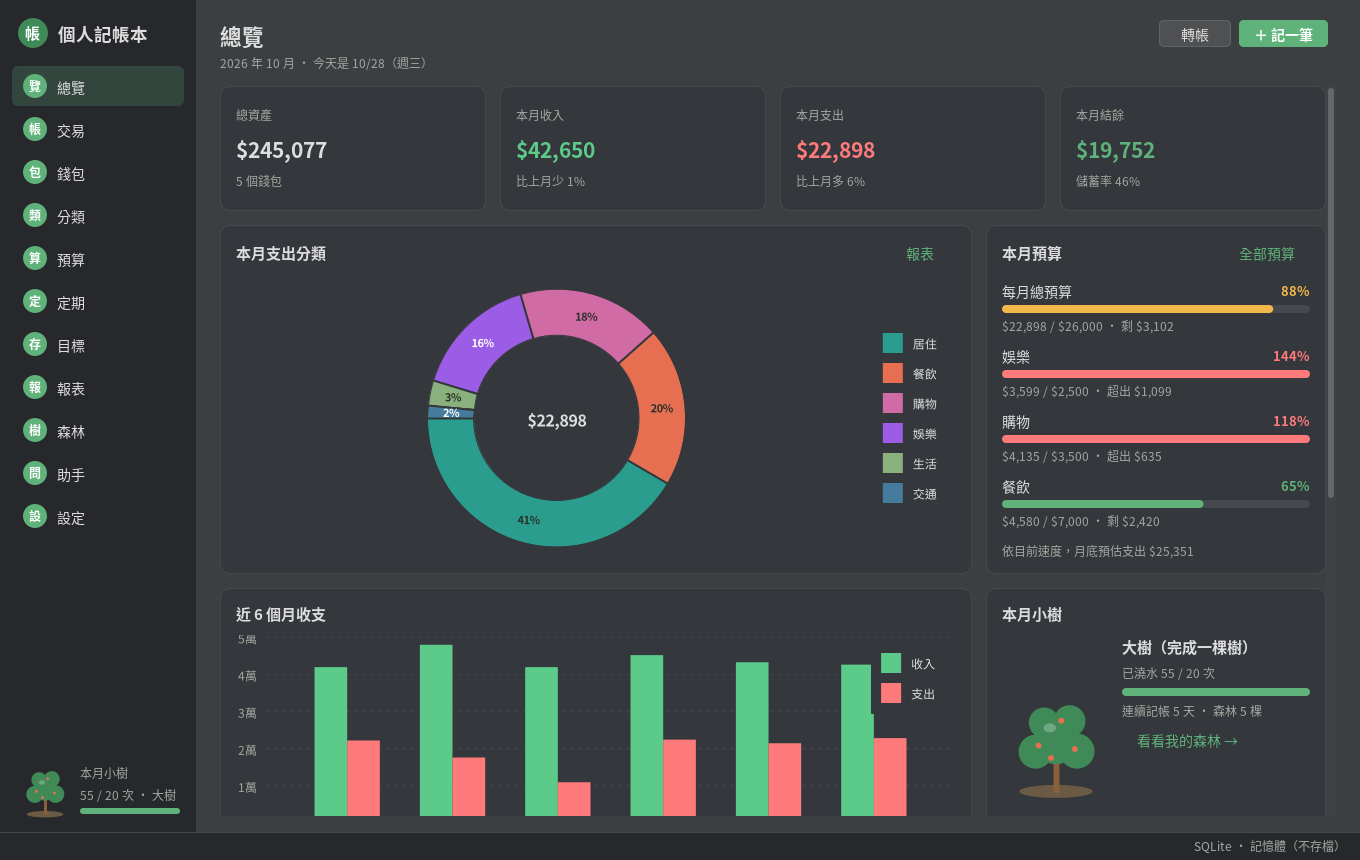
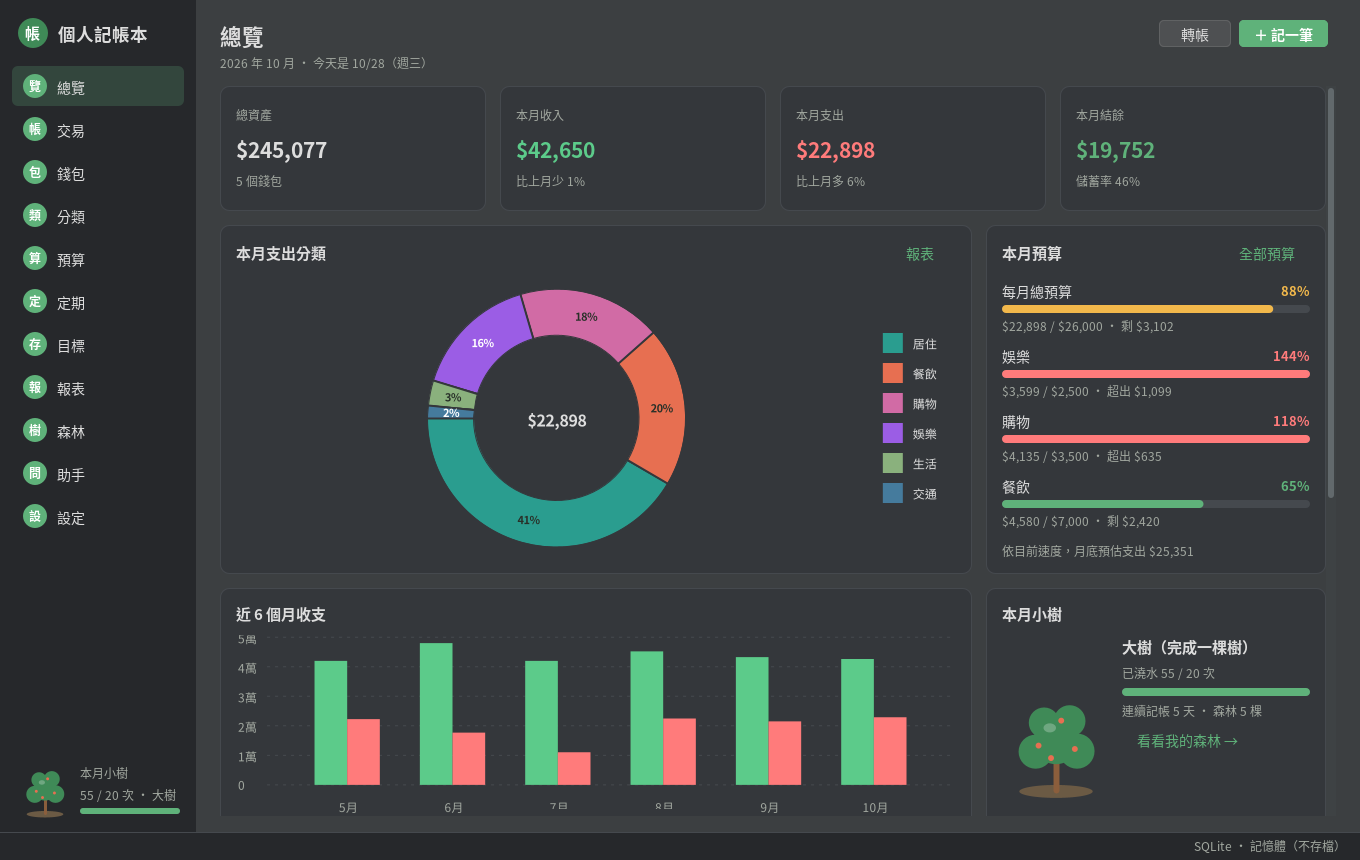
Move the income/expense legend below the chart

diff --git a/src/main/java/budgetbook/ui/components/Charts.java b/src/main/java/budgetbook/ui/components/Charts.java
@@ -75,7 +75,8 @@ public final class Charts {
     public static CategoryChart incomeExpenseBars(List<PeriodTotals> totals) {
         CategoryChart chart = new CategoryChartBuilder().width(480).height(260).build();
         axes(chart.getStyler());
-        chart.getStyler().setLegendPosition(Styler.LegendPosition.InsideNE);
+        chart.getStyler().setLegendPosition(Styler.LegendPosition.OutsideS);
+        chart.getStyler().setLegendLayout(Styler.LegendLayout.Horizontal);
         chart.getStyler().setAvailableSpaceFill(0.62);
         List<String> labels = totals.stream().map(PeriodTotals::label).toList();
         chart.addSeries("收入", labels, totals.stream().map(t -> t.income().toDouble()).toList())
